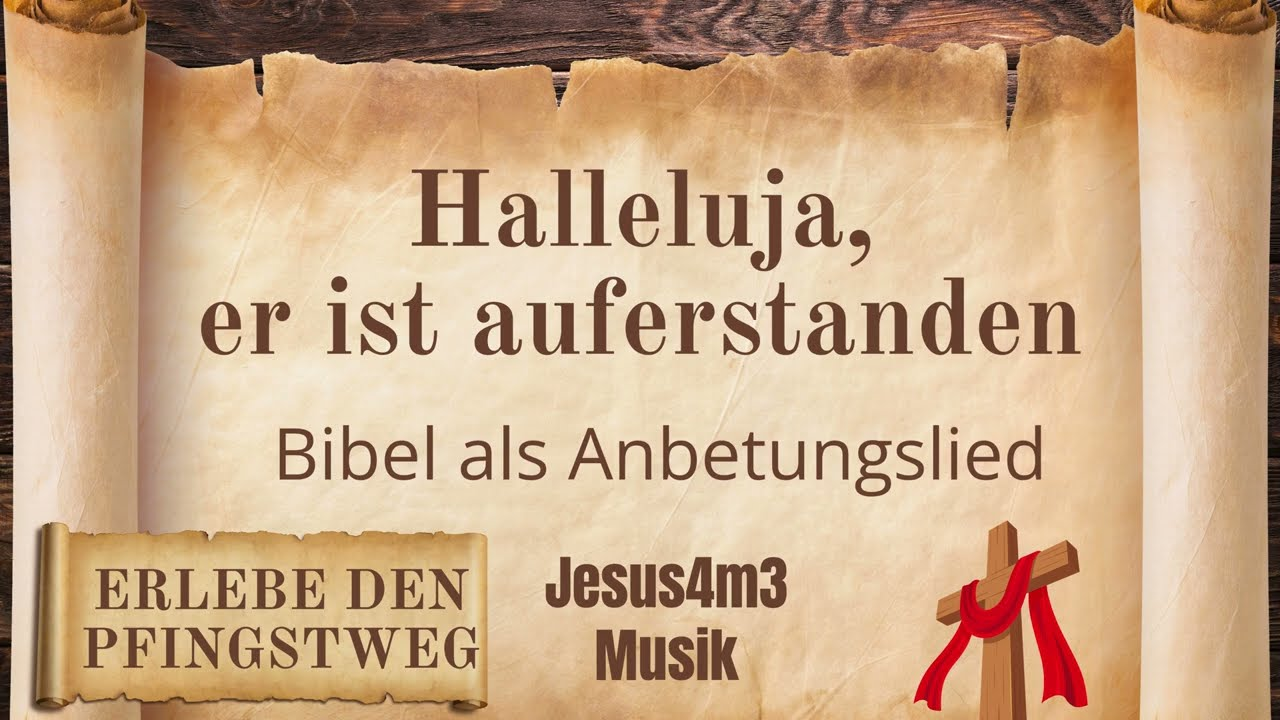
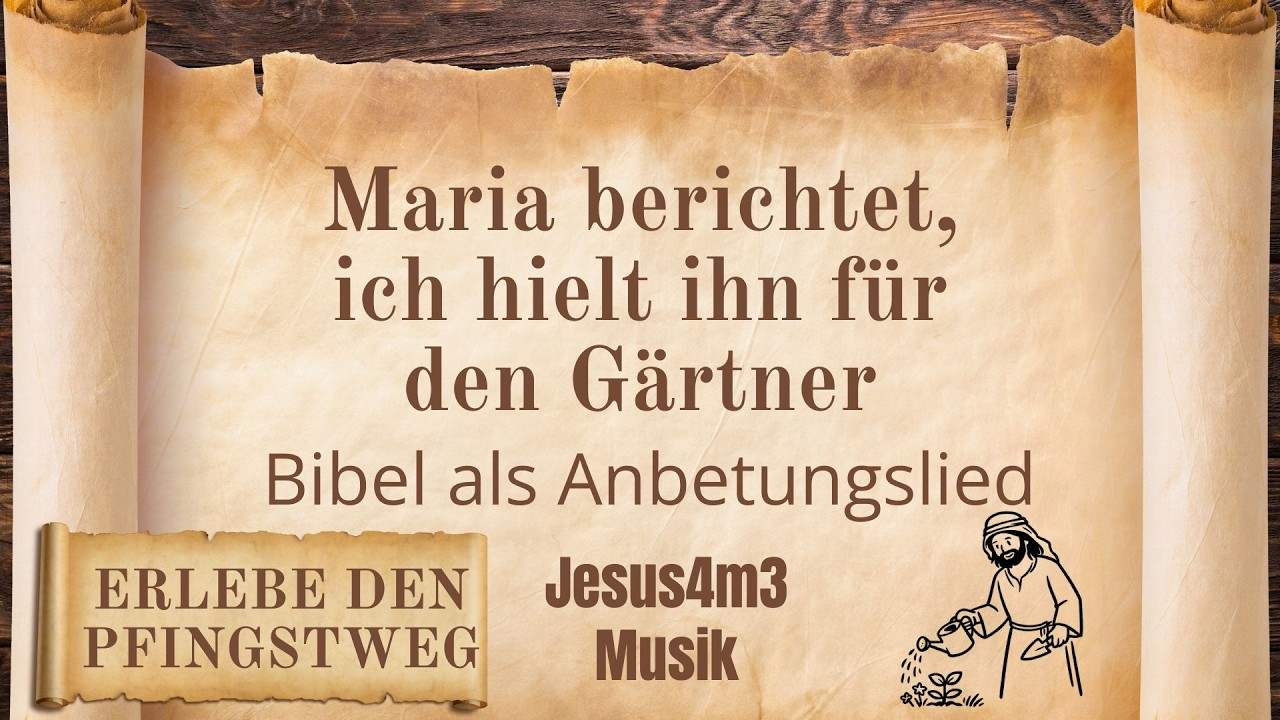
Add Lied 3 page and update navigation
Add and publish the third song of the Pfingstweg: update index to list song 3, update lied-2 to link to the new next page, and add/update erlebe-den-pfingstweg/lied-3...html with revised metadata (title, OG/Twitter), YouTube links, and copy about audio platforms. Add the new entry to nav.js and replace the song-3 thumbnail image. These changes enable navigation to and from the new song page and surface the YouTube video.

diff --git a/erlebe-den-pfingstweg/lied-3-maria-berichtet-dass-sie-ihn-fuer-den-gaertner-hielt.html b/erlebe-den-pfingstweg/lied-3-maria-berichtet-dass-sie-ihn-fuer-den-gaertner-hielt.html
@@ -4,18 +4,18 @@
   <meta charset="utf-8">
   <meta name="viewport" content="width=device-width, initial-scale=1">
   <meta name="referrer" content="no-referrer">
-  <title>Maria berichtet, dass sie ihn für den Gärtner hielt</title>
-  <meta name="description" content="Entwurfsseite für das dritte Lied im Pfingstweg: Maria berichtet von ihrer Begegnung mit dem auferstandenen Jesus am Grab, den sie zunächst für den Gärtner hielt.">
+  <title>Erlebe den Pfingstweg: Maria berichtet, ich hielt ihn für den Gärtner</title>
+  <meta name="description" content="Erlebe den Pfingstweg: Maria berichtet von ihrer Begegnung mit dem auferstandenen Jesus am Grab und sagt: Ich hielt ihn für den Gärtner.">
   <meta property="og:type" content="website">
   <meta property="og:site_name" content="Bibel als Musik">
-  <meta property="og:title" content="Maria berichtet, dass sie ihn für den Gärtner hielt">
-  <meta property="og:description" content="Entwurfsseite für das dritte Lied im Pfingstweg: Maria berichtet von ihrer Begegnung mit dem auferstandenen Jesus am Grab, den sie zunächst für den Gärtner hielt.">
+  <meta property="og:title" content="Erlebe den Pfingstweg: Maria berichtet, ich hielt ihn für den Gärtner">
+  <meta property="og:description" content="Erlebe den Pfingstweg: Maria berichtet von ihrer Begegnung mit dem auferstandenen Jesus am Grab und sagt: Ich hielt ihn für den Gärtner.">
   <meta property="og:url" content="https://bibelmusik.j4m3.de/erlebe-den-pfingstweg/lied-3-maria-berichtet-dass-sie-ihn-fuer-den-gaertner-hielt.html">
   <meta property="og:image" content="https://bibelmusik.j4m3.de/img/pfingstweg-lied-3-vorschaubild.jpg">
-  <meta property="og:image:alt" content="Vorschaubild zum Lied Maria berichtet, dass sie ihn für den Gärtner hielt">
+  <meta property="og:image:alt" content="Vorschaubild zum Lied Maria berichtet, ich hielt ihn für den Gärtner">
   <meta name="twitter:card" content="summary_large_image">
-  <meta name="twitter:title" content="Maria berichtet, dass sie ihn für den Gärtner hielt">
-  <meta name="twitter:description" content="Entwurfsseite für das dritte Lied im Pfingstweg: Maria berichtet von ihrer Begegnung mit dem auferstandenen Jesus am Grab, den sie zunächst für den Gärtner hielt.">
+  <meta name="twitter:title" content="Erlebe den Pfingstweg: Maria berichtet, ich hielt ihn für den Gärtner">
+  <meta name="twitter:description" content="Erlebe den Pfingstweg: Maria berichtet von ihrer Begegnung mit dem auferstandenen Jesus am Grab und sagt: Ich hielt ihn für den Gärtner.">
   <meta name="twitter:image" content="https://bibelmusik.j4m3.de/img/pfingstweg-lied-3-vorschaubild.jpg">
   <link rel="icon" type="image/png" sizes="32x32" href="../favicon-32.png">
   <link rel="apple-touch-icon" href="../apple-touch-icon.png">
@@ -34,20 +34,22 @@
         <nav class="breadcrumb" aria-label="Breadcrumb">
           <a href="../index.html">Startseite</a> /
           <a href="./">Erlebe den Pfingstweg</a> /
-          Maria berichtet, dass sie ihn für den Gärtner hielt
+          Maria berichtet, ich hielt ihn für den Gärtner
         </nav>
 
-        <h1>Erlebe den Pfingstweg: Maria berichtet, dass sie ihn für den Gärtner hielt</h1>
-        <p class="subtitle">Drittes Lied der CD "Erlebe den Pfingstweg" (Entwurf)</p>
+        <h1>Erlebe den Pfingstweg: Maria berichtet, ich hielt ihn für den Gärtner</h1>
+        <p class="subtitle">Drittes Lied der CD "Erlebe den Pfingstweg"</p>
 
         <div class="thumb">
-          <img src="../img/pfingstweg-lied-3-vorschaubild.jpg" alt="Vorschaubild zum Lied Maria berichtet, dass sie ihn für den Gärtner hielt">
+          <a href="https://www.youtube.com/watch?v=hYSQ7-K_sLQ&amp;list=PLl64o101ouRL5GPUlWV-1_ur9bOOoNgBX" target="_blank" rel="noopener noreferrer">
+            <img src="../img/pfingstweg-lied-3-vorschaubild.jpg" alt="Vorschaubild zum Lied Maria berichtet, ich hielt ihn für den Gärtner">
+          </a>
         </div>
-        <p class="thumb-link">Das Video ist für diese Entwurfsseite noch nicht ergänzt.</p>
+        <p class="thumb-link"><a href="https://www.youtube.com/watch?v=hYSQ7-K_sLQ&amp;list=PLl64o101ouRL5GPUlWV-1_ur9bOOoNgBX" target="_blank" rel="noopener noreferrer">Video auf YouTube öffnen</a></p>
 
         <section class="platforms">
           <h2>Audio-Plattformen</h2>
-          <p>Diese Liedseite ist als Entwurf vorbereitet. Die Audio-Plattformen werden ergänzt, sobald das Lied veröffentlicht ist.</p>
+          <p>Die Audio-Portale sind für dieses Lied noch nicht verfügbar. Die ersten Veröffentlichungen auf den Audio-Portalen kommen bald.</p>
         </section>
 
         <section class="section">
@@ -148,9 +150,9 @@ und ich hab ihn selbst geseh'n.</p></section>
           <p>Playlist:
 <a href="https://www.youtube.com/playlist?list=PLl64o101ouRL5GPUlWV-1_ur9bOOoNgBX" target="_blank" rel="noopener noreferrer">YouTube-Playlist</a></p>
           <p>Mehr Infos:
-Entwurfsseite, noch nicht veröffentlicht</p>
+Audio-Portale bald verfügbar</p>
           <p>Video:
-Noch nicht ergänzt</p>
+<a href="https://www.youtube.com/watch?v=hYSQ7-K_sLQ&amp;list=PLl64o101ouRL5GPUlWV-1_ur9bOOoNgBX" target="_blank" rel="noopener noreferrer">Direkt zu YouTube</a></p>
         </div>
       </section>
     </div>

diff --git a/erlebe-den-pfingstweg/index.html b/erlebe-den-pfingstweg/index.html
@@ -56,6 +56,7 @@
           <ol class="song-overview-list">
             <li class="song-overview-item"><span class="song-overview-number">1</span><a href="lied-1-halleluja-er-ist-auferstanden.html">Halleluja, er ist auferstanden</a></li>
             <li class="song-overview-item"><span class="song-overview-number">2</span><a href="lied-2-petrus-berichtet-dass-er-lebt.html">Petrus berichtet, dass er lebt!</a></li>
+            <li class="song-overview-item"><span class="song-overview-number">3</span><a href="lied-3-maria-berichtet-dass-sie-ihn-fuer-den-gaertner-hielt.html">Maria berichtet, ich hielt ihn für den Gärtner</a></li>
           </ol>
         </section>
       </section>

diff --git a/erlebe-den-pfingstweg/lied-2-petrus-berichtet-dass-er-lebt.html b/erlebe-den-pfingstweg/lied-2-petrus-berichtet-dass-er-lebt.html
@@ -182,7 +182,7 @@ Er lebt, Er lebt, Er lebt!</p></section>
 
   <nav class="bottom-nav" aria-label="Seitenwechsel">
     <a href="lied-1-halleluja-er-ist-auferstanden.html">&larr; Vorherige</a>
-    <span>N&auml;chste &rarr;</span>
+    <a href="lied-3-maria-berichtet-dass-sie-ihn-fuer-den-gaertner-hielt.html">N&auml;chste &rarr;</a>
   </nav>
   <script src="../nav.js"></script>
   <script src="nav.js"></script>

diff --git a/erlebe-den-pfingstweg/nav.js b/erlebe-den-pfingstweg/nav.js
@@ -9,4 +9,8 @@ window.SECTION_NAVIGATION["erlebe-den-pfingstweg"] = [
     title: "Petrus berichtet, dass er lebt!",
     href: "lied-2-petrus-berichtet-dass-er-lebt.html",
   },
+  {
+    title: "Maria berichtet, ich hielt ihn für den Gärtner",
+    href: "lied-3-maria-berichtet-dass-sie-ihn-fuer-den-gaertner-hielt.html",
+  },
 ];
